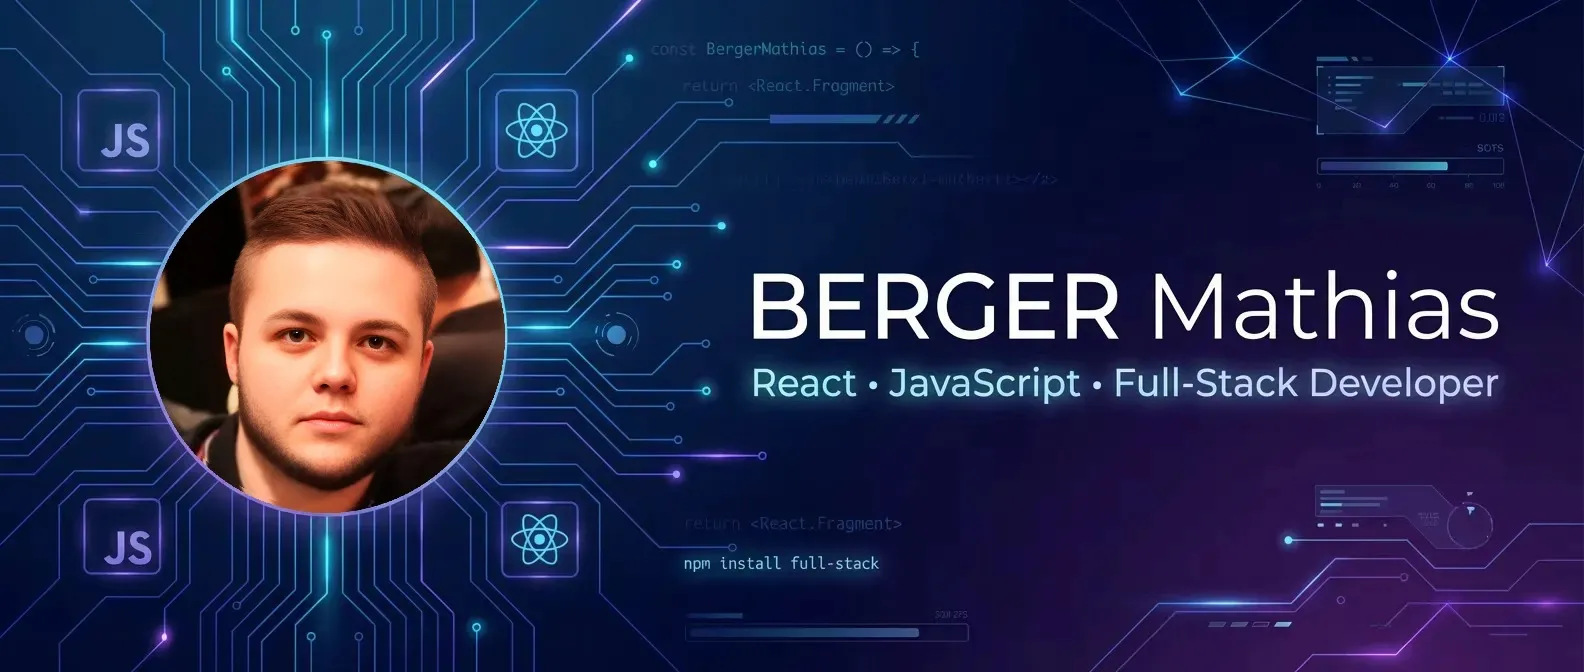
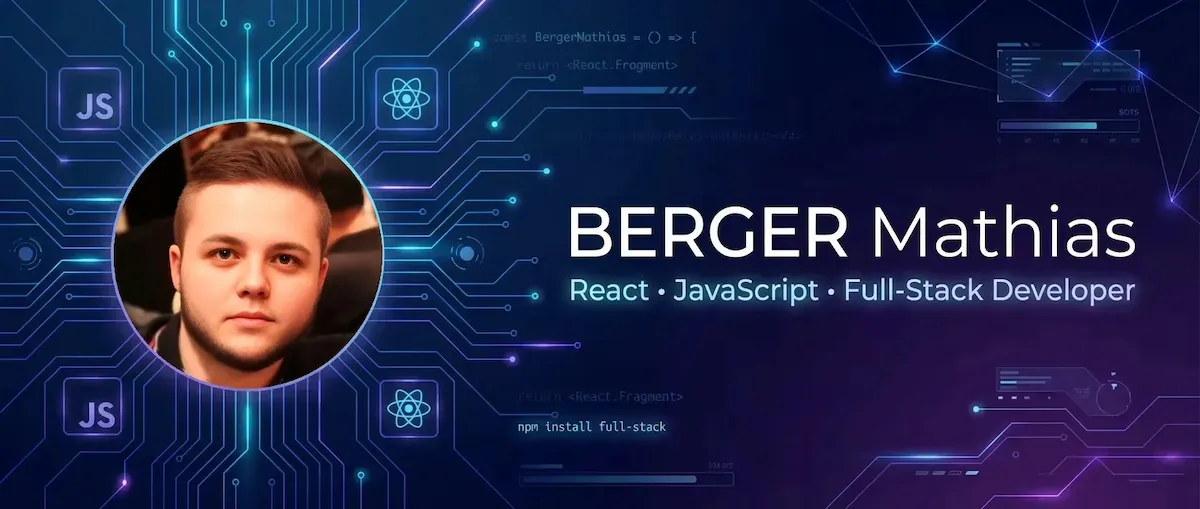
optimisation images

diff --git a/src/components/Navbar.jsx b/src/components/Navbar.jsx
@@ -26,7 +26,9 @@ const Navbar = () => {
           className="flex items-center gap-1 text-3xl font-syne font-bold tracking-tighter"
         >
           <img 
-            src={Logo} 
+            src={Logo}
+              width="500" 
+              height="500" 
             alt="Berger Mathias - Portfolio Accueil" 
             className="w-15 h-15 object-contain hover:scale-110 transition-transform border border-white/20 rounded-full"
           />

diff --git a/src/components/Banner.jsx b/src/components/Banner.jsx
@@ -12,8 +12,10 @@ const Banner = () => {
             className=""
           >
             <img 
-              src={banner} 
-              alt="Banière" 
+              src={banner}
+              width="1200" 
+              height="509"
+              alt="Banière"
               className="w-11/12 md:w-3/6 h-auto rounded-full shadow-xl block mx-auto"
             />
           </motion.h1>
